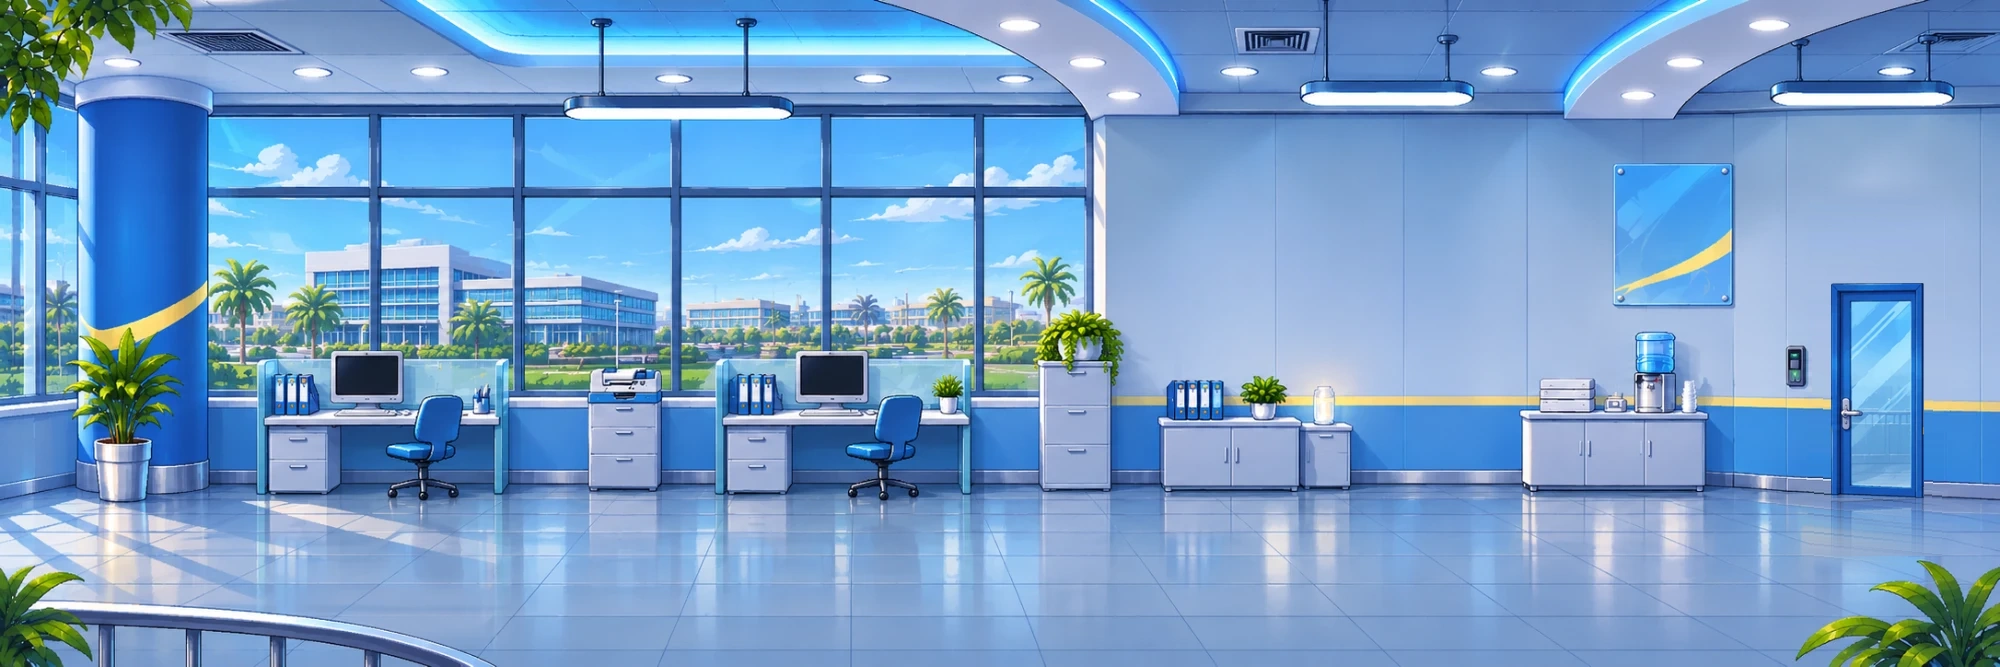
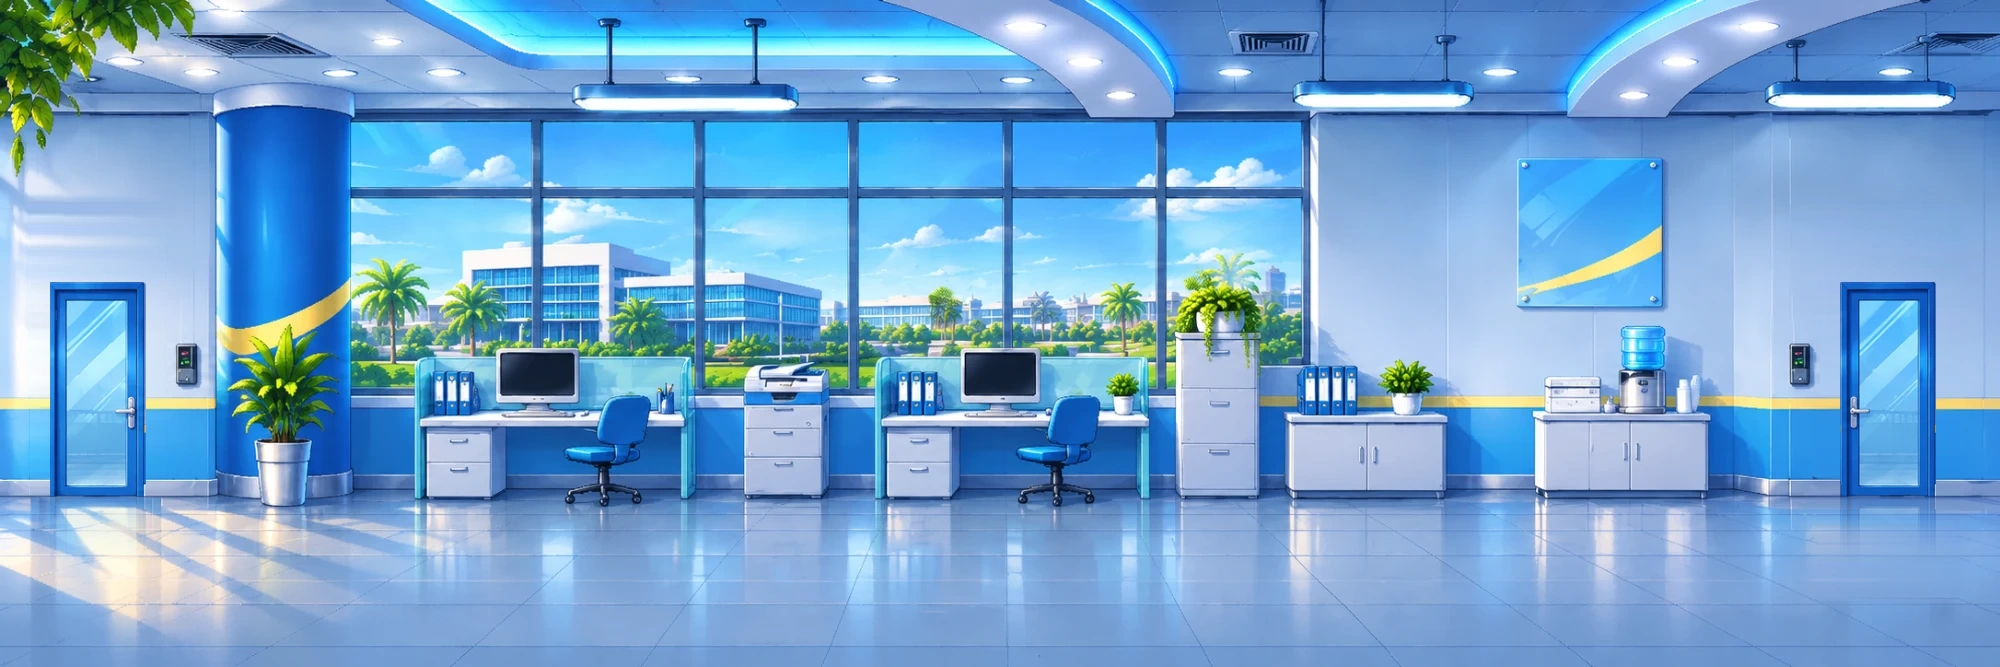
R01 art v3: two doors shrunk to a real 0.9 x 2.1 m size, wall and floor repainted, new door reference

diff --git a/src/level.js b/src/level.js
@@ -20,8 +20,8 @@
 //   light: { rim, rimAlpha, rimPx, lightX, lightY, wash, washAlpha, feet } = how Zee and the enemies are lit in this room
 //   (rim / wash are [r,g,b]); the game eases from one room's light to the next (see setLight in assets.js).
 //   doorRight is the door to the NEXT room: while it is locked the player cannot pass it; no door (or unlocked) = open.
-import { CONFIG } from './config.js?v=202611220109';
-import { VERSION } from './assets.js?v=202611220109';
+import { CONFIG } from './config.js?v=202611220142';
+import { VERSION } from './assets.js?v=202611220142';
 
 const C = CONFIG.camera, F = CONFIG.floor;
 export const LAYER_H = 507;                       // layer height in pixels (the view shows 506.25)
@@ -208,8 +208,9 @@ export function tempRoom(id, name, width) {
 // the view (Y 506.25), which crops the top ~18 px (the very top of the ceiling) and puts the wall / floor line (image y ~484)
 // at Y ~364 and the furniture feet (image y ~491) at Y ~369, which is where CONFIG.floor.top (366) comes from.
 // The window view, furniture and the door are painted into this one image, so for now it is one layer (no parallax in the windows).
-// THE DOOR (painted in, shrunk to a real 0.9 x 2.1 m door): frame x 1831-1923, y 283-497 in the image = world x 1428-1500 (72 wide),
-// Y 207-374 (168 tall, 1.27x Zee). Its foot is at the floor, at Y ~374.
+// TWO DOORS (painted in, both shrunk to a real 0.9 x 2.1 m door, 96 x 215 px, foot at image y 497 = world Y ~374, 168 tall = 1.27x Zee):
+//   right door: frame x 1840-1935 in the image = world x 1435-1509; left door: frame x 50-145 = world x 39-113. Card readers beside them.
+//   (Which door connects to R02 is decided later; the other is part of the wall for now.)
 const R01_SCALE = 0.78, R01_W = 2000, R01_H = 667;
 export function qualityDepartment() {
   return {

diff --git a/src/main.js b/src/main.js
@@ -1,14 +1,14 @@
 // Game shell: loads Zee, runs the loop, draws the placeholder office + HUD, wires pause / touch UI / animation viewer.
-import { CONFIG } from './config.js?v=202611220109';
-import { loadCharacter, VERSION, LOOK, setLight } from './assets.js?v=202611220109';
-import { Input } from './input.js?v=202611220109';
-import { Zee } from './zee.js?v=202611220109';
-import { Game } from './game.js?v=202611220109';
-import { ENEMY_IDS } from './enemy.js?v=202611220109';
-import { drawHud as drawArcadeHud } from './hud.js?v=202611220109';
-import { Level, qualityDepartment } from './level.js?v=202611220109';
-import { Camera } from './camera.js?v=202611220109';
-import { unlock } from './sfx.js?v=202611220109';
+import { CONFIG } from './config.js?v=202611220142';
+import { loadCharacter, VERSION, LOOK, setLight } from './assets.js?v=202611220142';
+import { Input } from './input.js?v=202611220142';
+import { Zee } from './zee.js?v=202611220142';
+import { Game } from './game.js?v=202611220142';
+import { ENEMY_IDS } from './enemy.js?v=202611220142';
+import { drawHud as drawArcadeHud } from './hud.js?v=202611220142';
+import { Level, qualityDepartment } from './level.js?v=202611220142';
+import { Camera } from './camera.js?v=202611220142';
+import { unlock } from './sfx.js?v=202611220142';
 
 const { w: W, h: H } = CONFIG.view;
 const canvas = document.getElementById('game');

diff --git a/src/enemy.js b/src/enemy.js
@@ -1,9 +1,9 @@
 // Enemy: a fighter with a small brain. It lines up with Zee, flanks, chains combos, sidesteps her swings, punishes her recovery,
 // throws call-centre headsets, and (navy + sporty, the "heavies") grabs and throws her.
 // Art comes from assets/characters/<id>/ ; every enemy shares this one brain.
-import { CONFIG } from './config.js?v=202611220109';
-import { frameAt, drawAnim, silhouette, LOOK } from './assets.js?v=202611220109';
-import { SOFT } from './zee.js?v=202611220109';
+import { CONFIG } from './config.js?v=202611220142';
+import { frameAt, drawAnim, silhouette, LOOK } from './assets.js?v=202611220142';
+import { SOFT } from './zee.js?v=202611220142';
 
 const E = CONFIG.enemy;
 const rnd = (a, b) => a + Math.random() * (b - a);

diff --git a/src/hud.js b/src/hud.js
@@ -1,8 +1,8 @@
 // Arcade HUD (early-2000s style): angled panels with white outlines, glossy bars, bold italic type.
 // Built from separate pieces drawn in game units, so it scales with the canvas at any resolution.
 // Top-left: portrait + HP bar + SP meter. Bottom-left: KO counter. All values come from the live game state.
-import { CONFIG } from './config.js?v=202611220109';
-import { VERSION } from './assets.js?v=202611220109';
+import { CONFIG } from './config.js?v=202611220142';
+import { VERSION } from './assets.js?v=202611220142';
 
 const portrait = new Image();
 portrait.src = 'assets/ui/zee_portrait.png?v=' + VERSION;

diff --git a/src/camera.js b/src/camera.js
@@ -1,7 +1,7 @@
 // The world camera. The world is drawn through a zoomed-out camera (CONFIG.camera.zoom, about 0.71): 900 x 506 world units
 // are visible and rendered into the 640 x 360 screen. The camera follows Zee horizontally (with a little look-ahead in the
 // direction she faces) and is clamped to the level. It never scrolls vertically: the world is exactly one screen tall.
-import { CONFIG } from './config.js?v=202611220109';
+import { CONFIG } from './config.js?v=202611220142';
 
 export class Camera {
   constructor() { this.x = 0; this.px = 0; this.gx = 0; this.look = 0; this.ready = false; }

diff --git a/src/game.js b/src/game.js
@@ -1,8 +1,8 @@
 // Game world: Zee + enemies, combat resolution, projectiles and all the "juice" (hit flash, sparks, shake, hit-stop, sound).
-import { CONFIG } from './config.js?v=202611220109';
-import { Enemy } from './enemy.js?v=202611220109';
-import { SOFT } from './zee.js?v=202611220109';
-import { sfx } from './sfx.js?v=202611220109';
+import { CONFIG } from './config.js?v=202611220142';
+import { Enemy } from './enemy.js?v=202611220142';
+import { SOFT } from './zee.js?v=202611220142';
+import { sfx } from './sfx.js?v=202611220142';
 
 const E = CONFIG.enemy;
 

diff --git a/src/zee.js b/src/zee.js
@@ -1,7 +1,7 @@
 // Zee: the player character. A small state machine driven by input actions.
 // Movement, combat timing, and animation selection live here; art comes from the manifest (assets.js).
-import { CONFIG } from './config.js?v=202611220109';
-import { frameAt, drawAnim, silhouette, LOOK } from './assets.js?v=202611220109';
+import { CONFIG } from './config.js?v=202611220142';
+import { frameAt, drawAnim, silhouette, LOOK } from './assets.js?v=202611220142';
 
 const C = CONFIG.zee;
 const FREE = new Set(['idle', 'walk', 'run', 'makeup']);

diff --git a/src/assets.js b/src/assets.js
@@ -1,6 +1,6 @@
 // Loads a character's manifest + strips and turns them into ready-to-play animation objects.
 // To swap art, replace the PNG strips / manifest in assets/characters/<name>/ - no code changes needed.
-import { CONFIG } from './config.js?v=202611220109';
+import { CONFIG } from './config.js?v=202611220142';
 
 // Release stamp, taken from this module's own URL (?v=...): every release uses new URLs so browsers never serve stale files.
 export const VERSION = new URL(import.meta.url).searchParams.get('v') || 'dev';

diff --git a/index.html b/index.html
@@ -128,7 +128,7 @@
 <div id="rotate"><div><h2>Rotate your phone</h2><p style="color:var(--mute)">This game plays in landscape.</p></div></div>
 <div id="loading"><div><div class="lt">CALL TERMINATED</div><div class="ls">is loading...</div></div></div>
 
-<script type="module" src="src/main.js?v=202611220109"></script>
+<script type="module" src="src/main.js?v=202611220142"></script>
 </body>
 </html>
 

diff --git a/src/input.js b/src/input.js
@@ -1,6 +1,6 @@
 // Unified input: keyboard on PC/laptop, floating joystick + buttons on touch devices.
 // The game only reads: input.axis (x,y in -1..1), input.run, and input.consume() (one-shot actions).
-import { CONFIG } from './config.js?v=202611220109';
+import { CONFIG } from './config.js?v=202611220142';
 
 export class Input {
   constructor(root = document) {

diff --git a/HANDOFF.md b/HANDOFF.md
@@ -59,3 +59,5 @@ After any work, add a dated line under "Decisions and changes" and adjust "Next 
 
 - 2026-11-22 (3): R01 DOOR SHRUNK (done by Claude directly in the image, not by ChatGPT, so nothing else in the picture drifted). Measured every object against real size (Zee 132 units = 1.65 m, 80 units/m, art at 0.78 units/px): desk 77 px (0.75 m), chair 102 px (1.0 m), copier 121 px (1.18 m), filing cabinet 129 px (1.26 m), credenza 72 px (0.7 m), counter 78 px (0.76 m), card reader centre 125 px up (1.2 m): all realistic. Only the door was off (294 px = 2.85 m). It is now 93 x 215 px (0.9 x 2.1 m): frame x 1831-1923, y 283-497 in the image = world x 1428-1500 (72 wide), Y 207-374 (168 tall, 1.27x Zee), same centre and foot as before. The wall, yellow stripe, blue band, baseboard and floor behind it were repainted line by line and a smaller floor reflection was drawn; the card reader is untouched. Monitors are ~25% big and the water dispenser is a bit tall, left as stylisation.
   Re-encoded to assets/levels/r01_quality_department.webp (223 KB). ffmpeg gotcha: libwebp lossy ignores -quality / -global_quality here; use `-q:v 95 -preset picture` (ffmpeg is at the WinGet FFmpeg package folder, `where ffmpeg`). sprites/levels/r01_door_reference.png re-cut from the shrunk door (372x726, 3x).
+
+- 2026-11-22 (4): R01 ART v3 (the user's ChatGPT redraw with doors at BOTH ends, no bottom-corner plants). Measured vs the standard (img px; 1 m = 103 px; Zee 169 px): doors were again 131 x 294 px (2.85 m, the old oversize), so Claude shrank BOTH to 96 x 215 px (0.9 x 2.1 m, foot at image y 496; right door frame x 1840-1935, left door x 50-145 = world x 1435-1509 and 39-113) and repainted the wall/stripes/baseboard behind each, plus the floor under the right door (a smaller reflection was drawn for both). Everything else is realistic: desks ~83 px (0.8 m), chairs ~110 px (1.07 m), copier 136 px (1.3 m), credenza/counter ~84 px (0.82 m). NOT fixed on purpose: the filing cabinet is 162 px (1.6 m, ~30% too tall; fixing it would mean repainting the window behind it) and monitors/plant are slightly large. Floor line unchanged (baseboard bottom ~487 = world Y ~366-367). Which door connects to R02 is undecided. Lesson: ChatGPT ignores exact pixel sizes, so measure every delivered room and fix door size directly (scripts used: scratchpad shrink-doors3.ps1 pattern: cut door, repaint rows by blending the wall left/right of the gap with a slight slope, paste door at 0.7313, flipped faded reflection).
